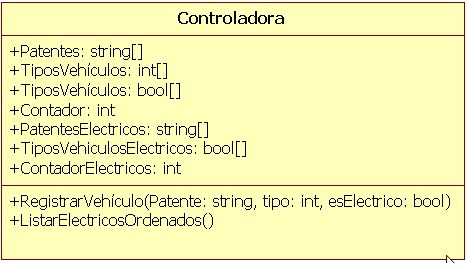
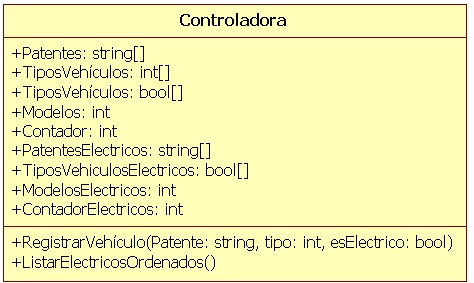
ejercicio 2 definitivo

Changed region(s): [[0.0, 0.0, 1.0, 1.0]]

diff --git a/Guia12.1/Ejercicio2_PuntoDeControl/FormPrincipal.Designer.cs b/Guia12.1/Ejercicio2_PuntoDeControl/FormPrincipal.Designer.cs
@@ -36,6 +36,8 @@
             this.label2 = new System.Windows.Forms.Label();
             this.label1 = new System.Windows.Forms.Label();
             this.button1 = new System.Windows.Forms.Button();
+            this.tbModelo = new System.Windows.Forms.TextBox();
+            this.label3 = new System.Windows.Forms.Label();
             this.groupBox1.SuspendLayout();
             this.SuspendLayout();
             // 
@@ -47,7 +49,7 @@
             "Motocicleta",
             "Camioneta",
             "Camión"});
-            this.cbTipoVehiculo.Location = new System.Drawing.Point(213, 108);
+            this.cbTipoVehiculo.Location = new System.Drawing.Point(213, 68);
             this.cbTipoVehiculo.Margin = new System.Windows.Forms.Padding(4, 5, 4, 5);
             this.cbTipoVehiculo.Name = "cbTipoVehiculo";
             this.cbTipoVehiculo.Size = new System.Drawing.Size(180, 28);
@@ -55,7 +57,7 @@
             // 
             // tbPatente
             // 
-            this.tbPatente.Location = new System.Drawing.Point(213, 54);
+            this.tbPatente.Location = new System.Drawing.Point(213, 32);
             this.tbPatente.Margin = new System.Windows.Forms.Padding(4, 5, 4, 5);
             this.tbPatente.Name = "tbPatente";
             this.tbPatente.Size = new System.Drawing.Size(181, 26);
@@ -63,7 +65,7 @@
             // 
             // btnRegistrar
             // 
-            this.btnRegistrar.Location = new System.Drawing.Point(170, 205);
+            this.btnRegistrar.Location = new System.Drawing.Point(146, 191);
             this.btnRegistrar.Margin = new System.Windows.Forms.Padding(4, 5, 4, 5);
             this.btnRegistrar.Name = "btnRegistrar";
             this.btnRegistrar.Size = new System.Drawing.Size(141, 75);
@@ -74,17 +76,19 @@
             // 
             // groupBox1
             // 
+            this.groupBox1.Controls.Add(this.label3);
+            this.groupBox1.Controls.Add(this.tbModelo);
             this.groupBox1.Controls.Add(this.cbkEsElectrico);
             this.groupBox1.Controls.Add(this.label2);
             this.groupBox1.Controls.Add(this.btnRegistrar);
             this.groupBox1.Controls.Add(this.label1);
             this.groupBox1.Controls.Add(this.cbTipoVehiculo);
             this.groupBox1.Controls.Add(this.tbPatente);
-            this.groupBox1.Location = new System.Drawing.Point(18, 18);
+            this.groupBox1.Location = new System.Drawing.Point(13, 11);
             this.groupBox1.Margin = new System.Windows.Forms.Padding(4, 5, 4, 5);
             this.groupBox1.Name = "groupBox1";
             this.groupBox1.Padding = new System.Windows.Forms.Padding(4, 5, 4, 5);
-            this.groupBox1.Size = new System.Drawing.Size(446, 292);
+            this.groupBox1.Size = new System.Drawing.Size(446, 275);
             this.groupBox1.TabIndex = 3;
             this.groupBox1.TabStop = false;
             this.groupBox1.Text = "Datos de Ingreso";
@@ -92,7 +96,7 @@
             // cbkEsElectrico
             // 
             this.cbkEsElectrico.AutoSize = true;
-            this.cbkEsElectrico.Location = new System.Drawing.Point(218, 158);
+            this.cbkEsElectrico.Location = new System.Drawing.Point(213, 148);
             this.cbkEsElectrico.Margin = new System.Windows.Forms.Padding(4, 5, 4, 5);
             this.cbkEsElectrico.Name = "cbkEsElectrico";
             this.cbkEsElectrico.Size = new System.Drawing.Size(128, 24);
@@ -103,7 +107,7 @@
             // label2
             // 
             this.label2.AutoSize = true;
-            this.label2.Location = new System.Drawing.Point(99, 58);
+            this.label2.Location = new System.Drawing.Point(126, 35);
             this.label2.Margin = new System.Windows.Forms.Padding(4, 0, 4, 0);
             this.label2.Name = "label2";
             this.label2.Size = new System.Drawing.Size(65, 20);
@@ -113,7 +117,7 @@
             // label1
             // 
             this.label1.AutoSize = true;
-            this.label1.Location = new System.Drawing.Point(32, 112);
+            this.label1.Location = new System.Drawing.Point(65, 71);
             this.label1.Margin = new System.Windows.Forms.Padding(4, 0, 4, 0);
             this.label1.Name = "label1";
             this.label1.Size = new System.Drawing.Size(126, 20);
@@ -122,7 +126,7 @@
             // 
             // button1
             // 
-            this.button1.Location = new System.Drawing.Point(484, 35);
+            this.button1.Location = new System.Drawing.Point(467, 22);
             this.button1.Margin = new System.Windows.Forms.Padding(4, 5, 4, 5);
             this.button1.Name = "button1";
             this.button1.Size = new System.Drawing.Size(165, 68);
@@ -131,11 +135,29 @@
             this.button1.UseVisualStyleBackColor = true;
             this.button1.Click += new System.EventHandler(this.button1_Click);
             // 
+            // tbModelo
+            // 
+            this.tbModelo.Location = new System.Drawing.Point(318, 112);
+            this.tbModelo.Margin = new System.Windows.Forms.Padding(4, 5, 4, 5);
+            this.tbModelo.Name = "tbModelo";
+            this.tbModelo.Size = new System.Drawing.Size(76, 26);
+            this.tbModelo.TabIndex = 6;
+            // 
+            // label3
+            // 
+            this.label3.AutoSize = true;
+            this.label3.Location = new System.Drawing.Point(65, 112);
+            this.label3.Margin = new System.Windows.Forms.Padding(4, 0, 4, 0);
+            this.label3.Name = "label3";
+            this.label3.Size = new System.Drawing.Size(207, 20);
+            this.label3.TabIndex = 7;
+            this.label3.Text = "Modelo (Año de fabricación)";
+            // 
             // FormPrincipal
             // 
             this.AutoScaleDimensions = new System.Drawing.SizeF(9F, 20F);
             this.AutoScaleMode = System.Windows.Forms.AutoScaleMode.Font;
-            this.ClientSize = new System.Drawing.Size(668, 317);
+            this.ClientSize = new System.Drawing.Size(636, 300);
             this.Controls.Add(this.button1);
             this.Controls.Add(this.groupBox1);
             this.Font = new System.Drawing.Font("Microsoft Sans Serif", 12F, System.Drawing.FontStyle.Regular, System.Drawing.GraphicsUnit.Point, ((byte)(0)));
@@ -158,6 +180,8 @@
         private System.Windows.Forms.CheckBox cbkEsElectrico;
         private System.Windows.Forms.Label label2;
         private System.Windows.Forms.Label label1;
+        private System.Windows.Forms.Label label3;
+        private System.Windows.Forms.TextBox tbModelo;
     }
 }
 

diff --git a/Guia12.1/Ejercicio2_PuntoDeControl/Models/Controlador.cs b/Guia12.1/Ejercicio2_PuntoDeControl/Models/Controlador.cs
@@ -10,30 +10,62 @@ namespace Ejercicio2_PuntoDeControl.Models
     {
         public string[] Patentes=new string[1000];
         public int [] TiposVehículos = new int[1000];
+        public int [] Modelos = new int[1000];
         public bool[] EsElectrico = new bool[1000];
         public int Contador = 0;
 
-        public void RegistrarVehículo(string patente, int tipo, bool esElectrico)
+        public void RegistrarVehículo(string patente, int tipo, int modelo, bool esElectrico)
         {
             Patentes[Contador] = patente;
             TiposVehículos[Contador] = tipo;
-            EsElectrico[Contador] = esElectrico;
+            Modelos[Contador] = modelo;
+            EsElectrico[Contador] = esElectrico;           
             Contador++;
         }
 
         public string[] PatentesElectricos = new string[1000];
         public int[] TiposVehículosElectricos = new int[1000];
+        public int[] ModelosElectricos = new int[1000];
         public int ContadorElectricos = 0;
-        public void ListarElectricosOrdenados() 
+
+        public void ListarElectricosOrdenadosPorModelo() 
         {
             ContadorElectricos = 0;//es importante poner en cero aquí
+
             for (int n = 0; n < Contador; n++) 
             {
                 if (EsElectrico[n] == true)
                 {
                     PatentesElectricos[ContadorElectricos] = Patentes[n];
+                    ModelosElectricos[ContadorElectricos] = Modelos[n];
                     TiposVehículosElectricos[ContadorElectricos] = TiposVehículosElectricos[n];
                     ContadorElectricos++;//no olvidarse este detallito
+                }
+            }
+
+            OrdenarElectricos();
+        }
+
+        public void OrdenarElectricos()
+        {
+            for (int n = 0; n < ContadorElectricos - 1; n++)
+            {
+                for (int m = n + 1; m < ContadorElectricos; m++)
+                {
+                    if (ModelosElectricos[n] > ModelosElectricos[m])
+                    {
+                        string patente = PatentesElectricos[m];
+                        PatentesElectricos[m] = PatentesElectricos[n];
+                        PatentesElectricos[n] = patente;
+
+                        int modelo = ModelosElectricos[m];
+                        ModelosElectricos[m] = ModelosElectricos[n];
+                        ModelosElectricos[n] = modelo;
+
+                        int tipoVehículomodelo = TiposVehículosElectricos[m];
+                        TiposVehículosElectricos[m] = TiposVehículosElectricos[n];
+                        TiposVehículosElectricos[n] = tipoVehículomodelo;
+                    }
                 }
             }
         }

diff --git a/Guia12.1/Ejercicio2_PuntoDeControl/FormPrincipal.cs b/Guia12.1/Ejercicio2_PuntoDeControl/FormPrincipal.cs
@@ -9,6 +9,7 @@ using System.Text;
 using System.Threading.Tasks;
 using System.Windows.Forms;
 using Ejercicio2_PuntoDeControl;
+using System.Reflection;
 
 namespace Ejercicio2_PuntoDeControl
 {
@@ -25,11 +26,13 @@ namespace Ejercicio2_PuntoDeControl
         {
             string patente = tbPatente.Text;
             int tipoVehículo=cbTipoVehiculo.SelectedIndex;
+            int modeloVehículo = Convert.ToInt32( tbModelo.Text );
             bool esElectrico = cbkEsElectrico.Checked;
 
-            controlador.RegistrarVehículo(patente,tipoVehículo, esElectrico);
+            controlador.RegistrarVehículo(patente, tipoVehículo, modeloVehículo, esElectrico);
 
             tbPatente.Clear();
+            tbModelo.Clear();
             cbTipoVehiculo.SelectedIndex = -1;
             cbkEsElectrico.Checked = false;
         }
@@ -38,24 +41,25 @@ namespace Ejercicio2_PuntoDeControl
         {
             FormResultados fVer = new FormResultados();
 
-            if (controlador.Contador > 0)
-            {
-                for (int n = 0; n < controlador.Contador; n++)
-                {
-                    string esElectrivo = "No es eléctrico";
-                    if(controlador.EsElectrico[n]==true)
-                    {
-                        esElectrivo = "Es eléctrico";
-                    }
+            controlador.ListarElectricosOrdenadosPorModelo();
 
-                    fVer.lbxResultados.Items.Add($"{controlador.Patentes[n]} - {controlador.TiposVehículos[n]} - {esElectrivo}");
+            if (controlador.ContadorElectricos > 0)
+            {
+                fVer.lbxResultados.Items.Add("Vehículos eléctricos: ");
+
+                for (int n = 0; n < controlador.ContadorElectricos; n++)
+                {
+                    string patente = controlador.PatentesElectricos[n];
+                    int modelo=controlador.ModelosElectricos[n];
+                    int tipo=controlador.TiposVehículos[n];
+
+                    fVer.lbxResultados.Items.Add($"\t{patente} - {modelo} - {tipo}");
                 }
             }
             else
             {
                 fVer.lbxResultados.Items.Add($"Aún no se registraron vehículos");
             }
-
 
             fVer.ShowDialog();
         }

diff --git a/Guia12.1/Ejercicio2_PuntoDeControl/FormResultados.Designer.cs b/Guia12.1/Ejercicio2_PuntoDeControl/FormResultados.Designer.cs
@@ -73,7 +73,7 @@
             // 
             this.AutoScaleDimensions = new System.Drawing.SizeF(9F, 20F);
             this.AutoScaleMode = System.Windows.Forms.AutoScaleMode.Font;
-            this.ClientSize = new System.Drawing.Size(758, 512);
+            this.ClientSize = new System.Drawing.Size(608, 394);
             this.Controls.Add(this.groupBox1);
             this.Font = new System.Drawing.Font("Microsoft Sans Serif", 12F, System.Drawing.FontStyle.Regular, System.Drawing.GraphicsUnit.Point, ((byte)(0)));
             this.Margin = new System.Windows.Forms.Padding(4, 5, 4, 5);
